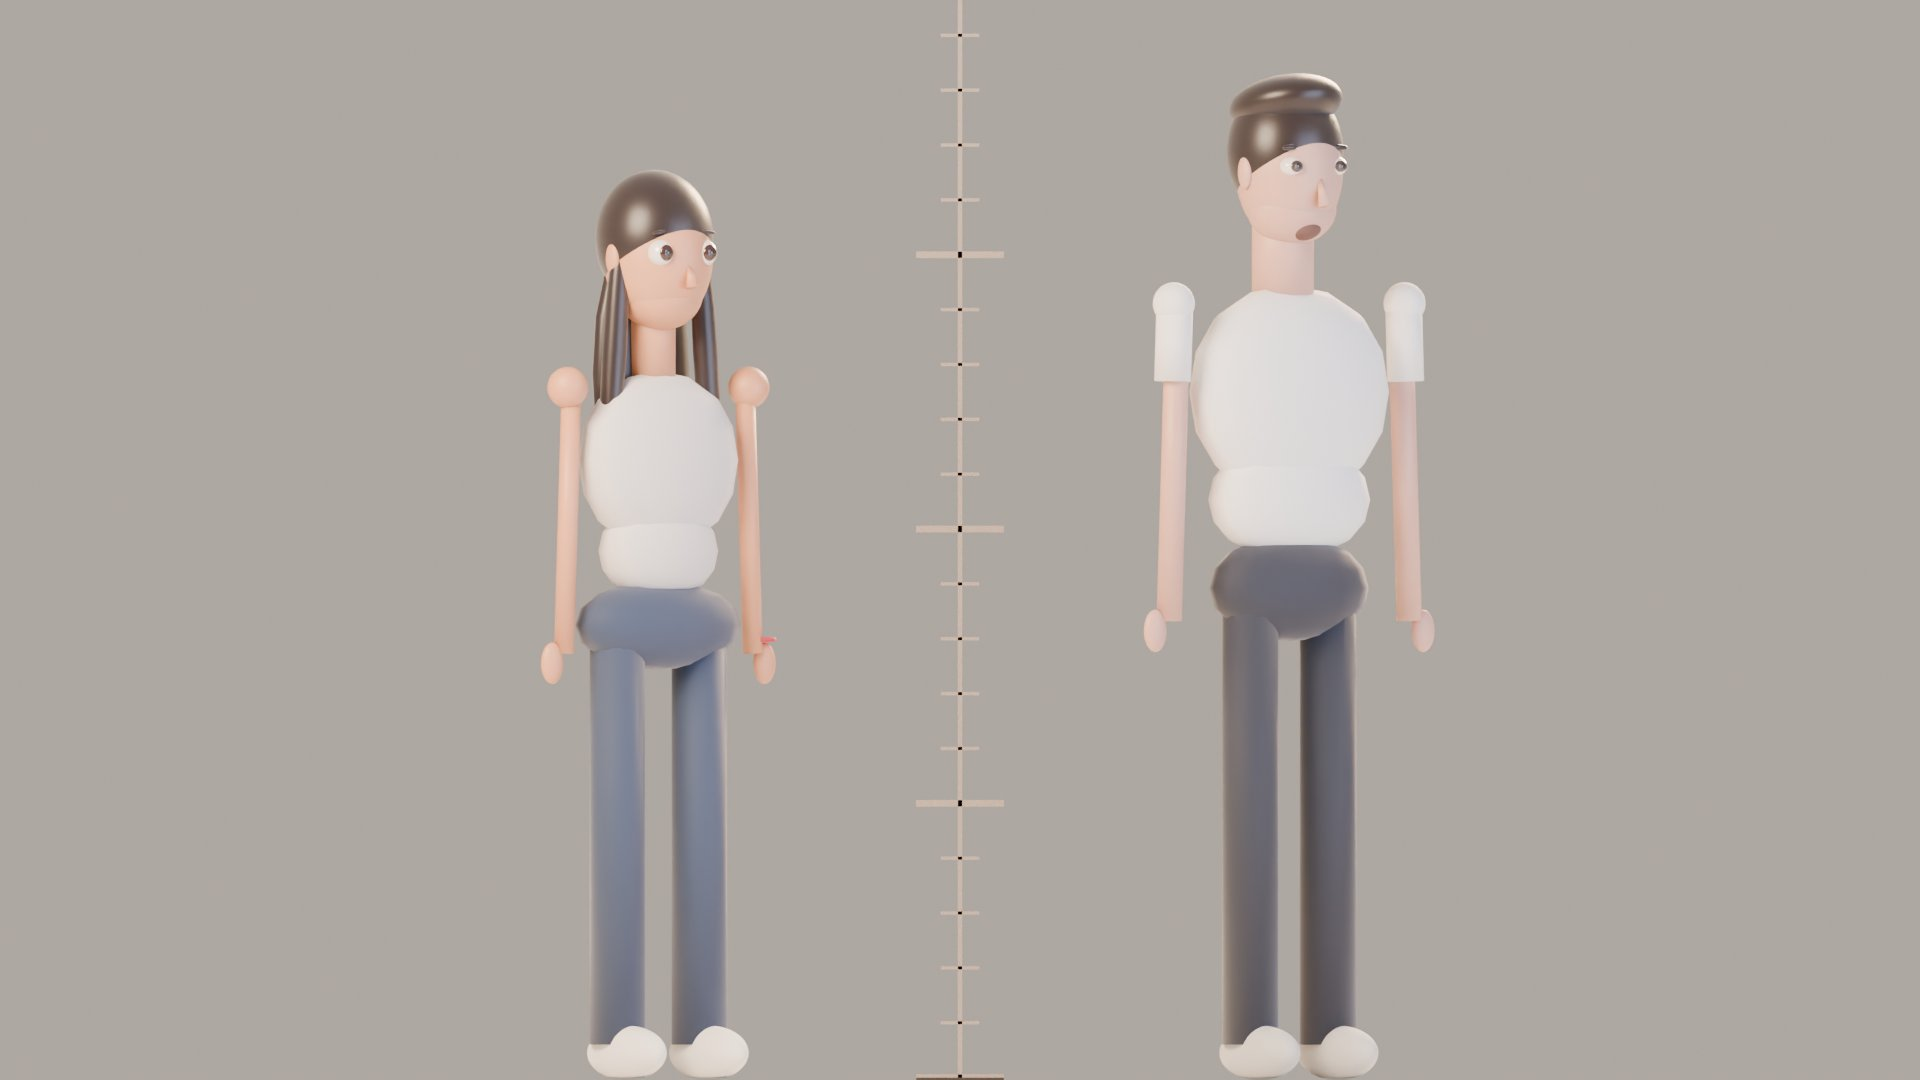
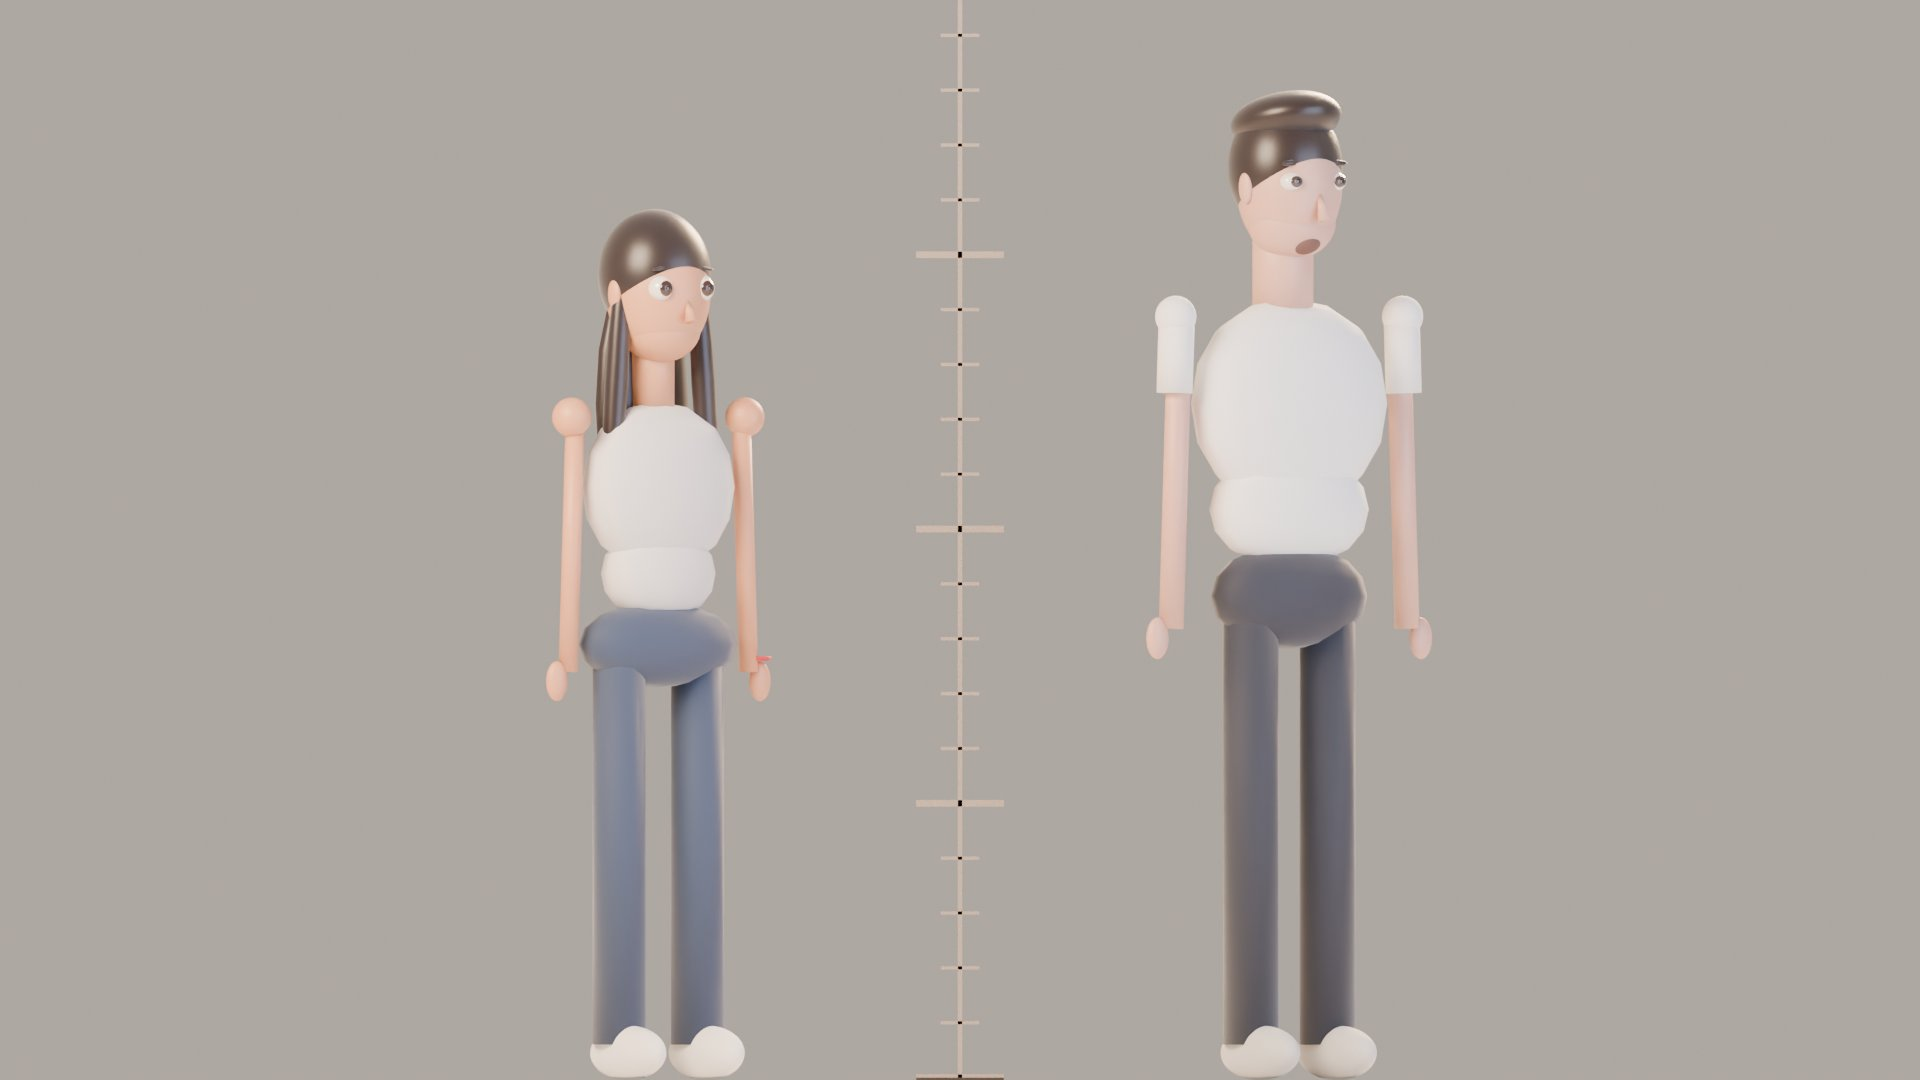
Film : tailles confirmées (Léna 1,55 m, Ruben 1,75 m), coiffure lisse par défaut, étape 1 détaillée
Maquettes re-rendues aux nouvelles tailles. Étape 1 découpée en 4 parties
avec le passage du film dans un dépôt privé dédié.

Claude-Session: https://claude.ai/code/session_01PnxFDKiKgU4Wca7jvbntm4

diff --git a/film/blender/01_atelier_personnages.py b/film/blender/01_atelier_personnages.py
@@ -36,9 +36,9 @@ import bpy
 # 1. RÉGLAGES À VÉRIFIER (les seules lignes que vous aurez peut-être à changer)
 # ---------------------------------------------------------------------------
 
-# Tailles réelles en mètres : À CONFIRMER par Léna (valeurs provisoires).
-TAILLE_LENA = 1.62
-TAILLE_RUBEN = 1.78
+# Tailles réelles en mètres (confirmées par Léna).
+TAILLE_LENA = 1.55
+TAILLE_RUBEN = 1.75
 
 # Stylisation « film d'animation moderne » : nombre de hauteurs de tête dans le corps.
 # Un humain réel ≈ 7,5 têtes. On réduit un peu pour une tête plus grande, plus expressive.

diff --git a/film/README.md b/film/README.md
@@ -10,13 +10,13 @@ Un film d'animation 3D de 30 à 45 minutes sur votre histoire, fait avec des out
 | [`bible/outils_gratuits.md`](bible/outils_gratuits.md) | Chaque outil, ses limites vérifiées, ce qui est indispensable ou non |
 | [`bible/prompts_concept_art.md`](bible/prompts_concept_art.md) | Prompts pour les dessins de recherche dans ChatGPT gratuit |
 | [`blender/01_atelier_personnages.py`](blender/01_atelier_personnages.py) | Script testé : palette, maquettes de proportions, toise, photos de référence, studio lumière, caméras |
-| `references/photos/` | **Vos photos, uniquement sur votre ordinateur** (exclues du dépôt public, voir `.gitignore`) |
+| `references/photos/` | **Vos photos, uniquement sur votre ordinateur** (exclues du dépôt par `.gitignore`, même privé) |
 
 ## Le plan de production
 | Phase | Contenu | Statut |
 |---|---|---|
 | 0 | Analyse des photos, direction artistique, bible, outils | ✅ fait |
-| 1 | Installer Blender, lancer l'atelier personnages | 👉 **en cours** |
+| 1 | Dépôt privé, installer Blender, lancer l'atelier personnages | 👉 **en cours** |
 | 2 | Installer MPFB2, créer la base du corps de Léna puis de Ruben | |
 | 3 | Sculpter les visages d'après les photos (ressemblance) | |
 | 4 | Cheveux, yeux, peau, vêtements | |
@@ -37,47 +37,71 @@ Compter **plusieurs mois** pour le film complet. Le premier chapitre terminé es
 
 ---
 
-## 👉 ÉTAPE 1 · Installer Blender et ouvrir l'atelier des personnages
+## 👉 ÉTAPE 1 · Préparer l'atelier des personnages
 
-**Ce qu'on fait** : installer Blender, puis lancer le script qui installe vos deux maquettes,
-la palette officielle, vos photos de référence et le studio lumière.
+L'étape 1 est découpée en 4 petites parties. **On valide chaque partie avant la suivante.**
 
-**Logiciel** : Blender (gratuit). **Durée** : 20 à 30 minutes.
+| Partie | Quoi | Statut |
+|---|---|---|
+| 1.A | Mettre le projet à l'abri dans un dépôt GitHub **privé** | 👉 maintenant |
+| 1.B | Installer Blender (en français) | 👉 maintenant |
+| 1.C | Télécharger le dossier du film et y ranger vos photos | après validation |
+| 1.D | Lancer le script de l'atelier et enregistrer le fichier | après validation |
 
-### 1.1 Installer Blender
-1. Allez sur **blender.org** › bouton bleu **Download**.
-2. Prenez la version proposée pour votre système (Windows / macOS / Linux). Installez-la normalement.
-3. Ouvrez Blender. Une fenêtre d'accueil apparaît : cliquez **n'importe où à côté** pour la fermer.
-4. Mettez Blender en français : menu **Edit › Preferences › Interface › Translation**,
-   *Language* : **Français**. Fermez la fenêtre des préférences.
+---
 
-### 1.2 Récupérer le dossier du film
-1. Sur GitHub, ouvrez la branche `claude/adoring-mccarthy-k024xs` de ce dépôt.
-2. Bouton vert **Code › Download ZIP**. Décompressez-le.
-3. Copiez le dossier **`film`** où vous voulez (par exemple *Documents/film*).
-4. Dans `film/references/`, créez un dossier **`photos`** et mettez-y vos 3 photos
-   (et toutes celles que vous voulez, en JPG ou PNG). Nommez-les par exemple
-   `lena_porte.jpg`, `couple_ascenseur_noir.jpg`…
+### 1.A · Créer un dépôt privé pour le film (5 minutes)
 
-### 1.3 Lancer le script
-1. Dans Blender, tout en haut, cliquez sur l'onglet **Scripting**.
-2. Au centre, cliquez sur **Ouvrir** (icône de dossier), choisissez
-   `film/blender/01_atelier_personnages.py`.
-3. Cliquez sur le bouton **▶** (*Exécuter le script*) en haut de la zone de texte.
-4. Revenez sur l'onglet **Layout** (en haut à gauche).
-5. Survolez la grande vue 3D avec la souris et appuyez sur la touche **1 du pavé numérique** (vue de face)
-   — sans pavé numérique : menu **Vue › Point de vue › Face**.
-6. En haut à droite de la vue 3D, cliquez sur la 3ᵉ petite sphère (**Aperçu du matériau**).
-7. **Fichier › Enregistrer sous…** › `film/blender/atelier_personnages.blend`.
+**Pourquoi un nouveau dépôt, et pas passer `lenarofe25-coder.github.io` en privé ?**
+Ce dépôt-là fait tourner votre portfolio et le jeu MDR. Avec un compte GitHub gratuit,
+**un site GitHub Pages ne peut être publié que depuis un dépôt public** : si on le passe
+en privé, votre portfolio et le jeu disparaissent d'Internet (sauf à payer GitHub Pro).
+Solution gratuite : le film part dans **son propre dépôt privé**, le portfolio reste public.
 
-### Résultat attendu
-- Deux silhouettes côte à côte (Léna à gauche, Ruben à droite) qui ressemblent à
-  [cette image](bible/images/maquettes_1_face.jpg), avec une toise entre les deux.
-- Vos photos affichées à gauche de la scène (elles n'apparaissent pas au rendu).
-- À droite de l'écran, dans la liste des objets : les collections **LENA**, **RUBEN**,
-  **REFERENCES**, **STUDIO**.
+1. Ouvrez **github.com** et connectez-vous.
+2. En haut à droite, cliquez sur le **+**, puis **New repository**.
+3. *Repository name* : tapez `film-lena-ruben`.
+4. Cochez **Private** (cadenas). Ne cochez **rien d'autre** (pas de README, pas de .gitignore, pas de licence).
+5. Cliquez sur le bouton vert **Create repository**.
+6. Donnez-moi l'accès : ouvrez https://github.com/apps/claude/installations/select_target ,
+   choisissez votre compte `lenarofe25-coder`, puis dans **Repository access** :
+   - si « All repositories » est coché : rien à faire ;
+   - sinon, cliquez **Select repositories**, ajoutez `film-lena-ruben`, puis **Save**.
 
-**Envoyez-moi une capture d'écran quand c'est fait**, et répondez aux questions de la
-fin de [`bible/personnages.md`](bible/personnages.md) + votre ordinateur. On passera ensuite à l'étape 2.
+**Résultat attendu** : une page « Quick setup » vide, avec un cadenas 🔒 à côté du nom `film-lena-ruben`.
 
-En cas de problème : copiez-moi le message d'erreur (menu *Fenêtre › Afficher/masquer la console système* sous Windows).
+Ensuite, c'est moi qui y transfère tout le dossier `film`, puis je le retire du dépôt public.
+
+### 1.B · Installer Blender (15 minutes)
+
+1. Allez sur **blender.org**, cliquez sur le gros bouton bleu **Download**.
+2. Le site propose automatiquement la bonne version :
+   - **Windows** : téléchargez le fichier *Installer (.msi)*, double-cliquez dessus,
+     puis *Next › Next › Install › Finish* sans rien changer.
+   - **Mac** : vérifiez qu'il est écrit *Apple Silicon* (Mac M1, M2, M3, M4…) ou *Intel*
+     (menu  › *À propos de ce Mac* pour savoir). Ouvrez le fichier `.dmg` et glissez
+     l'icône Blender dans le dossier **Applications**.
+3. Lancez Blender. Au premier lancement, une fenêtre **Quick Setup** apparaît :
+   - *Language* : choisissez **Français** ;
+   - laissez le reste tel quel, cliquez sur **Next** / **Continuer** jusqu'à la fin.
+   - Si la fenêtre n'apparaît pas : menu **Edit › Preferences › Interface › Translation**,
+     *Language* : **Français**, puis fermez la fenêtre (les préférences s'enregistrent seules).
+4. Vérifiez la version : menu **Aide › À propos de Blender** (ou le grand écran d'accueil).
+   Le numéro doit être **4.2 ou plus** (5.x, c'est parfait).
+5. Fermez la fenêtre d'accueil en cliquant à côté. Vous voyez un **cube gris** au centre :
+   c'est normal, le script le supprimera.
+
+**Résultat attendu** : Blender ouvert, menus en français, un cube au centre.
+
+### ✋ Avant de continuer, envoyez-moi :
+- « 1.A fait » + le nom exact du dépôt privé ;
+- « 1.B fait » + le **numéro de version** de Blender (ou une capture d'écran) ;
+- votre ordinateur : **PC ou Mac**, et si possible la mémoire vive et la carte graphique
+  (Windows : *Paramètres › Système › Informations système* ; Mac :  › *À propos de ce Mac*).
+
+En cas de blocage à n'importe quel moment : envoyez une capture d'écran, on règle ça ensemble.
+
+---
+
+### 1.C · Télécharger le dossier du film *(instructions détaillées données après validation de 1.A et 1.B)*
+### 1.D · Lancer le script de l'atelier *(instructions détaillées données après validation de 1.C)*

diff --git a/film/bible/personnages.md b/film/bible/personnages.md
@@ -24,7 +24,7 @@ Les couleurs ci-dessous ont été **mesurées pixel par pixel** sur la photo dev
 | Bouche | Lèvres pleines, rose nude `#C38786` | Lèvres pleines, coins de bouche expressifs |
 | Peau | Teint chaud, doré clair `#D69A77`, quelques taches de rousseur sur le nez et les pommettes (photo porte) | Peau chaude, **taches de rousseur légères conservées**, joues rosées |
 | Signe distinctif | Petit grain de beauté sur la joue, près du nez (photo ascenseur métal) | À placer — **côté à confirmer** (les selfies miroir inversent la gauche et la droite) |
-| Cheveux | Brun très foncé `#241B1D`, longs (sous la poitrine), lisses, raie légèrement décentrée, mèches qui encadrent le visage | Coiffure principale du film. Variante « boucles » (photo ascenseur noir) pour les soirées |
+| Cheveux | Brun très foncé `#241B1D`, longs (sous la poitrine), lisses, raie légèrement décentrée, mèches qui encadrent le visage | **Coiffure par défaut du film (validée) : longs, lisses, brun très foncé.** Variante « boucles » (photo ascenseur noir) seulement pour une occasion précise, sur votre demande |
 | Silhouette | Fine, taille marquée | 6,4 têtes de haut (stylisé) |
 | Accessoires | **Bracelet fil rouge** (2 photos), fine chaînette, ongles amande nude | Le fil rouge est porté dans tout le film (voir direction artistique) |
 | Style | Minimaliste : débardeurs côtelés gris / crème, col montant, jean large brut, pantalon daim camel, baskets blanches | Garde-robe neutre et lumineuse |
@@ -79,13 +79,13 @@ Ce sera une expression officielle du film pour chacun, et un gag récurrent poss
 
 | Mesure | Léna | Ruben |
 |---|---|---|
-| Taille | **1,62 m (à confirmer)** | **1,78 m (à confirmer)** |
+| Taille | **1,55 m** (confirmé) | **1,75 m** (confirmé) |
 | Hauteur en têtes | 6,4 | 6,9 |
 | Largeur d'épaules | 1,55 tête | 1,95 tête |
 | Largeur de hanches | 1,50 tête | 1,40 tête |
 | Entrejambe | 48,5 % de la taille | 47,5 % de la taille |
 | Taille des yeux | ×1,30 | ×1,15 |
-| Écart de taille entre eux | Le haut de la tête de Léna arrive environ au niveau du nez / des yeux de Ruben (cohérent avec les photos d'ascenseur) | |
+| Écart de taille entre eux | **20 cm** : le haut de la tête de Léna arrive au niveau de la bouche de Ruben. Pour se regarder dans les yeux, elle lève la tête et il la baisse : à utiliser dans la mise en scène (bisous, « boop » sur le nez) | |
 
 ---
 
@@ -117,15 +117,15 @@ personnage, avec ce nom exact, puis réutilisée dans toutes les scènes.
 | Code | Léna | Ruben | Source |
 |---|---|---|---|
 | `C1_ville` | Débardeur côtelé gris clair, jean brut large, baskets blanches, fil rouge | T-shirt blanc épais, jean foncé, baskets grises, casquette grise (option) | Photo porte |
-| `C2_soir` | Haut col montant écru sans manches, pantalon daim camel, cheveux bouclés | Pull fin écru manches raglan, pantalon lin clair | Photo ascenseur noir |
+| `C2_soir` | Haut col montant écru sans manches, pantalon daim camel, cheveux lisses (boucles seulement sur demande) | Pull fin écru manches raglan, pantalon lin clair | Photo ascenseur noir |
 | `C3_ete` | Haut col montant crème ajusté, cheveux lisses | Manches longues blanc cassé, cheveux mouillés plaqués | Photo ascenseur métal |
 | Autres | À définir chapitre par chapitre (anniversaire, restaurant, Marrakech, Milan…) avec vos photos de ces moments | | |
 
 ---
 
 ## 6. Points à confirmer par Léna
-- [ ] Vos tailles réelles (Léna / Ruben)
-- [ ] Coiffure par défaut de Léna : lisse (2 photos sur 3) ou bouclée ?
+- [x] Tailles réelles : Léna 1,55 m, Ruben 1,75 m
+- [x] Coiffure par défaut de Léna : longs cheveux lisses, brun très foncé
 - [ ] Côté du grain de beauté de Léna
 - [ ] « La moue selfie » comme expression officielle et gag récurrent : oui / non
 - [ ] Le motif magique du « fil rouge » (voir direction artistique) : oui / non
